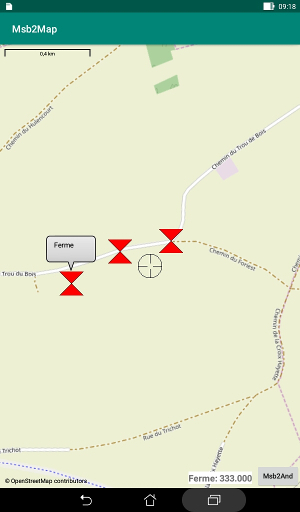
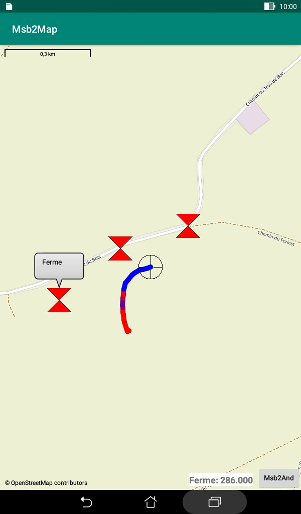
Addition of colored tail of locations

diff --git a/app/src/main/java/org/js/msb2map/MainActivity.java b/app/src/main/java/org/js/msb2map/MainActivity.java
@@ -8,6 +8,8 @@ import android.content.Intent;
 import android.content.IntentFilter;
 import android.content.pm.PackageInfo;
 import android.content.pm.PackageManager;
+import android.graphics.Color;
+import android.graphics.Paint;
 import android.location.Location;
 import android.os.Build;
 import android.os.Environment;
@@ -28,9 +30,11 @@ import org.osmdroid.util.GeoPoint;
 import org.osmdroid.views.MapView;
 import org.osmdroid.views.overlay.CopyrightOverlay;
 import org.osmdroid.views.overlay.Marker;
+import org.osmdroid.views.overlay.Polyline;
 import org.osmdroid.views.overlay.ScaleBarOverlay;
 import org.osmdroid.views.overlay.gestures.RotationGestureOverlay;
 
+import java.util.LinkedList;
 import java.util.List;
 import java.util.Map;
 import java.util.SortedSet;
@@ -54,6 +58,8 @@ public class MainActivity extends AppCompatActivity {
     Button bMsb2And;
     TextView vInfo;
     String caller=null;
+    GeoPoint prevGeoPt=null;
+    LinkedList<Polyline> listLine=new LinkedList<>();
 
 
     @Override
@@ -179,7 +185,7 @@ public class MainActivity extends AppCompatActivity {
         listening=true;
     }
 
-    public void update(Location loc, String bubble){
+    public void update(Location loc, Integer color, String bubble){
         GeoPoint gp=new GeoPoint(loc.getLatitude(),loc.getLongitude());
         if (flyMarker!=null) flyMarker.remove(map);
         flyMarker=new Marker(map);
@@ -196,6 +202,20 @@ public class MainActivity extends AppCompatActivity {
         flyMarker.setPosition(gp);
         map.getOverlays().add(flyMarker);
         mapController.setCenter(gp);
+        if (prevGeoPt!=null){
+            Polyline poly=new Polyline(map);
+            poly.addPoint(prevGeoPt);
+            poly.addPoint(gp);
+            poly.getPaint().setStrokeCap(Paint.Cap.ROUND);
+            if (color!=null) poly.setColor(color);
+            listLine.addFirst(poly);
+            map.getOverlays().add(poly);
+            if (listLine.size()>20){
+                Polyline rm=listLine.removeLast();
+                map.getOverlays().remove(rm);
+            }
+        }
+        prevGeoPt=gp;
         map.invalidate();
         if (bubble!=null) {
             vInfo.setText(bubble);
@@ -207,7 +227,8 @@ public class MainActivity extends AppCompatActivity {
         public void onReceive(Context context, Intent intent) {
             Location loc=(Location) intent.getParcelableExtra("LOC");
             String bubble=intent.getStringExtra("BUBBLE");
-            if (loc!=null) update(loc,bubble);
+            Integer color=intent.getIntExtra("COLOR",Color.BLACK);
+            if (loc!=null) update(loc,color,bubble);
         }
     };
 }

diff --git a/README.md b/README.md
@@ -7,7 +7,8 @@ The minimum version of Msb2And is 1.2.
 
 # Installation
 The application should be compiled from the sources in this repository
-or downloaded from the "**Releases**" pages.
+or downloaded from the [Releases](https://github.com/msb2kml/Msb2Map/releases)
+pages.
 
 You need to have authorized the installation of applications from other sources than Google Play.
 
@@ -47,6 +48,12 @@ The current location of the plane is noted as a marker with a form
 of reticule and the map is kept centered on this marker.  
 The information field show the value of the parameter that has
 been associated by Msb2And.
+ 
+A tail (or "ribbon") is drawn behind the current location. It covers
+20 previous locations and its default color is black.  
+The application "**Msb2And**" could give a colour to each segment
+from the value of the parameter named "**%**" computed with
+the function "**=COL**".
 
 # Getting the map
 The tiles composing the map are downloaded from the server of the
